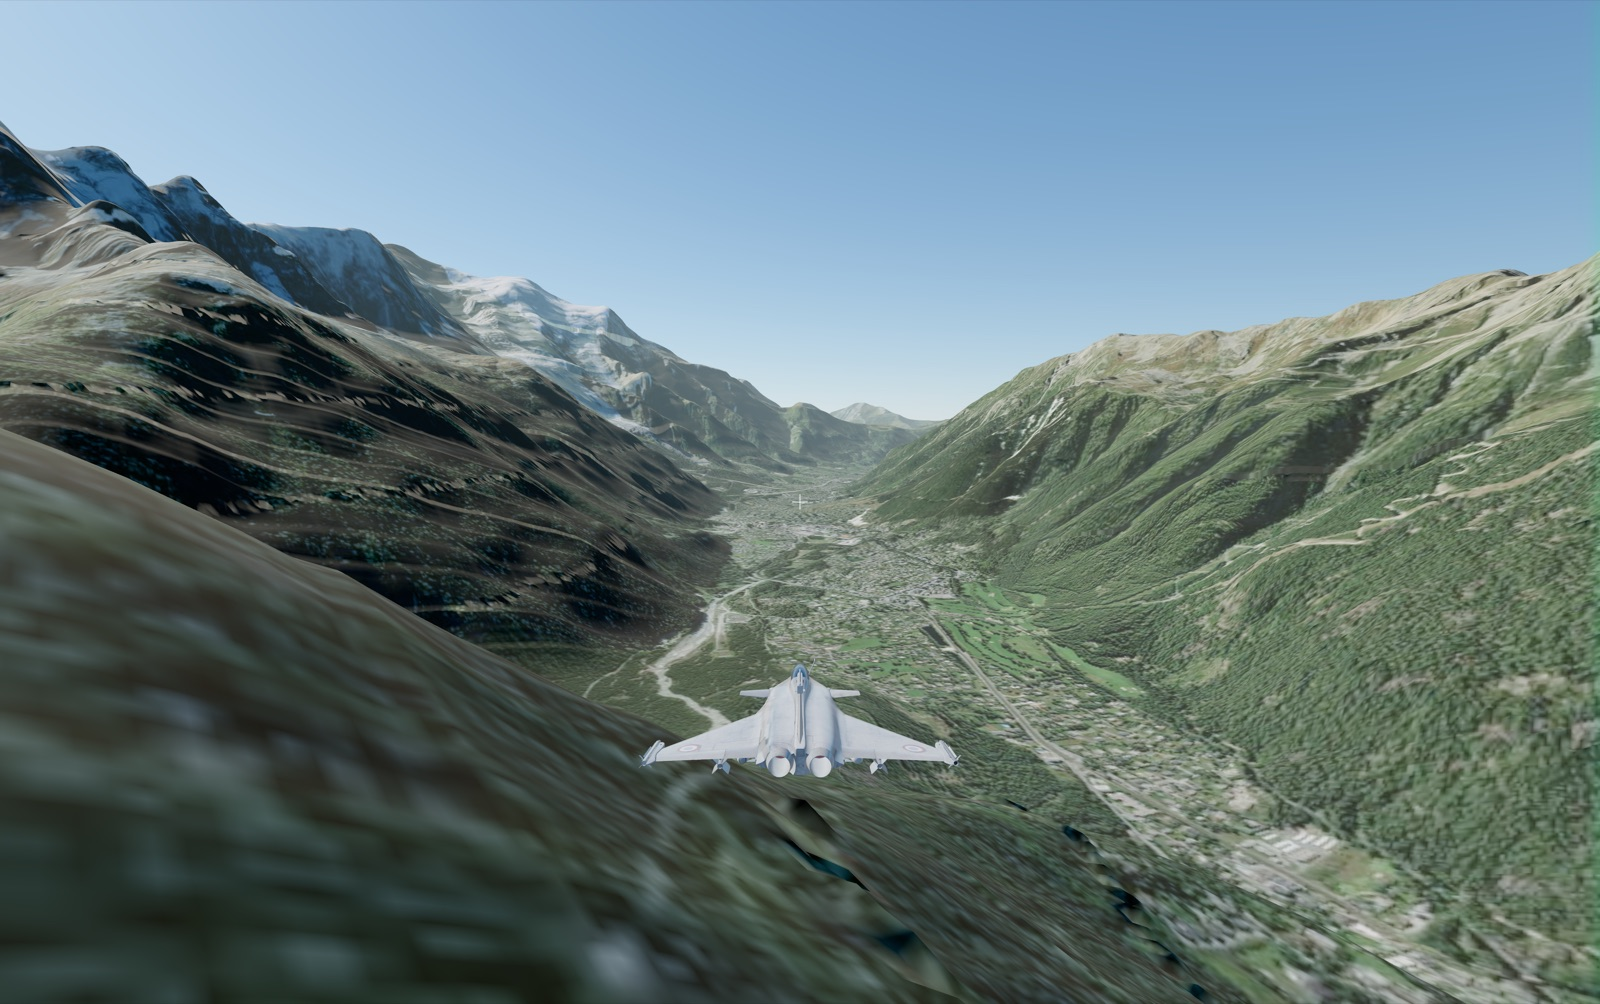
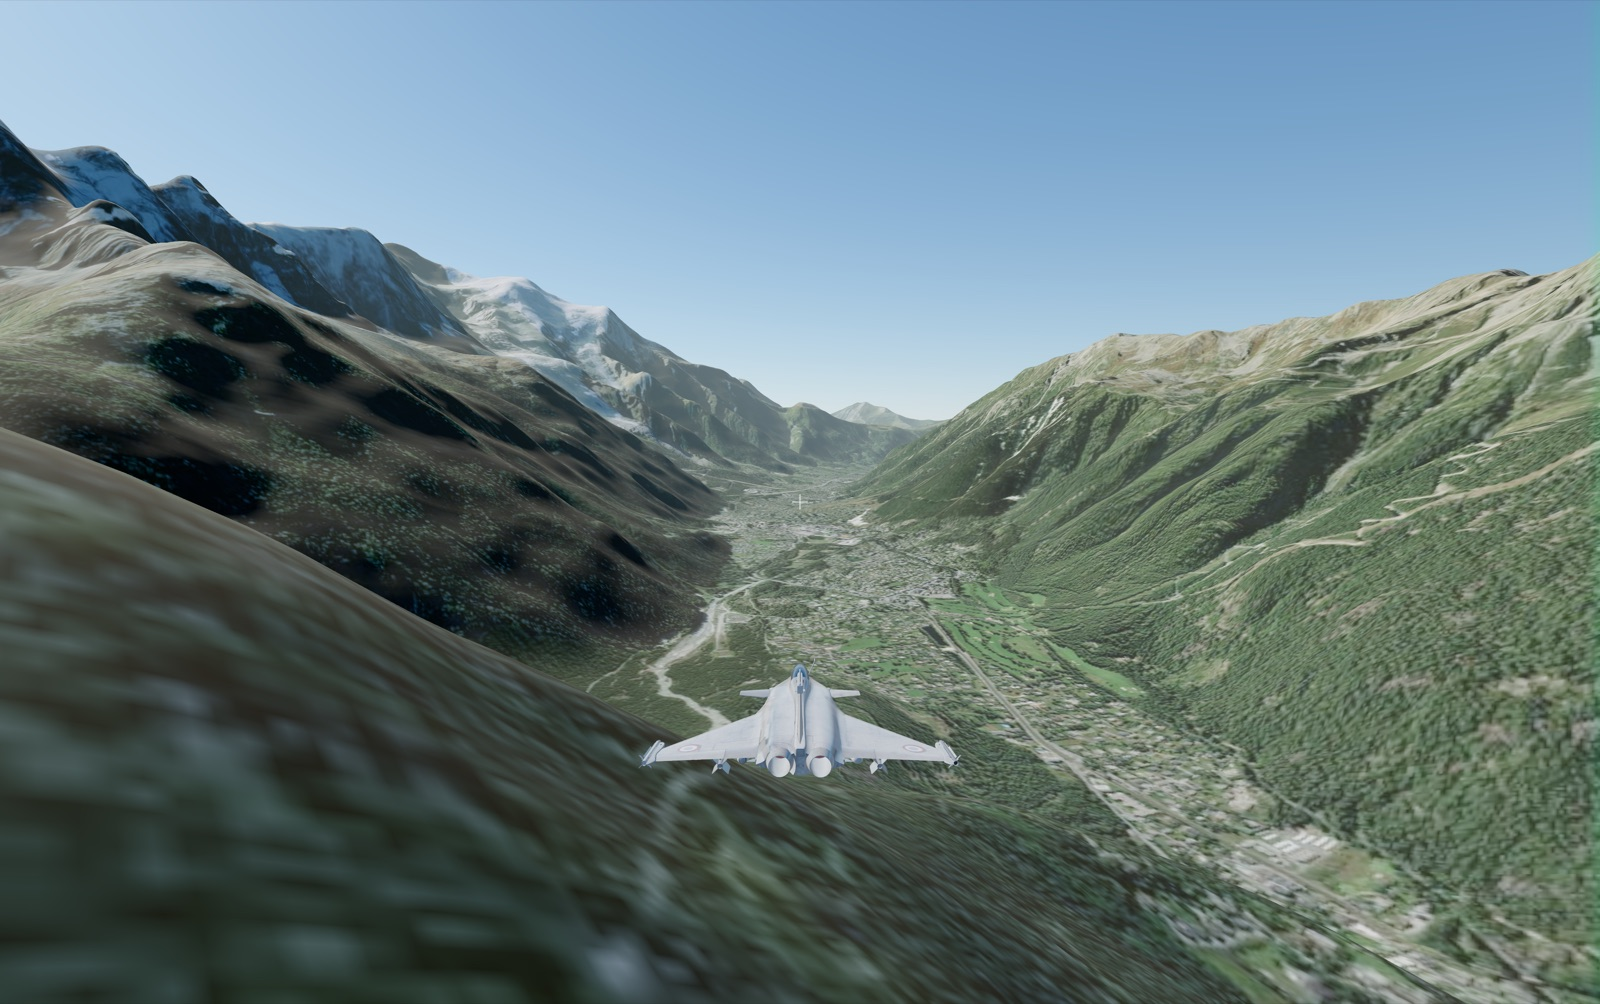
docs: record the measurements with CPU-decoded elevations and refresh the screenshots

diff --git a/docs/rendering-roadmap.md b/docs/rendering-roadmap.md
@@ -10,7 +10,7 @@ en fin de session.
 
 - **Lot terminé** : lot 1 (gains rapides). **Prochain lot** : lot 2, aucune tâche commencée.
 - **Git** : `feat/render-baseline` fusionnée dans `main` (fast-forward local, non poussée). Le lot 1 est
-  sur `feat/render-quick-wins` (12 commits au-dessus de `main`, ni fusionnée ni poussée). Demander à
+  sur `feat/render-quick-wins` (13 commits au-dessus de `main`, ni fusionnée ni poussée). Demander à
   l'utilisateur s'il faut la fusionner avant de créer la branche du lot 2 (`feat/render-hdr-pipeline`).
 - **Environnement local déjà prêt** : bundle three-tile reconstruit (anisotropie), `npm install` fait,
   cache `cache/` chaud. Lancer `npm run dev` (en tâche de fond) avant les mesures.
@@ -19,9 +19,9 @@ en fin de session.
   terrain, voir Décisions) → L2.5 → L2.1 → L2.2 → L2.3 → L2.4 → L2.8 → L2.7.
 - **Fait hors lot** : terrasses et stries du relief corrigées (décodage de l'altitude sur le CPU, voir
   L5.1 et le journal).
-- **Mesures** : un écran externe 60 Hz est apparu ; Chrome s'y ouvre et `AdaptiveQualityManager` y
-  dégrade la résolution sans jamais la rétablir (seuil de remontée 12 ms jamais atteint à 60 Hz).
-  Capturer sur l'écran 120 Hz, ou neutraliser la qualité adaptive pendant les mesures (L2.4).
+- **Mesures** : toujours sur l'écran intégré 120 Hz. Sur un écran 60 Hz, Chrome plafonne à 60 FPS et
+  `AdaptiveQualityManager` dégrade la résolution sans jamais la rétablir (seuil de remontée 12 ms jamais
+  atteint) : captures floues et mesures non comparables (corrigé par L2.4).
 - **Validation de chaque tâche** : `npm run render:capture -- --out benchmarks/render/<label>`, captures
   comparées à `benchmarks/render/lot1/` ; benchmarks de vol (défaut et `--plan 1`) à la clôture du lot.
 
@@ -261,6 +261,8 @@ Notes de lecture :
 | 2026-11-23 | Lot 1, PMREM en `scene.environment` (abandonné) | Plan 1 (basse alt.) | 94 s | 104,2 | 64,9 | 24,4 | 5,9 (9,3) | 396 / 44 | 2,67 M | 651 |
 | 2026-11-23 | Lot 1 | Vol par défaut | 128 s | 113,9 | 78,7 | 34,7 | 6,2 (10,3) | 122 / 28 | 2,12 M | 539 |
 | 2026-11-23 | Lot 1 | Plan 1 (basse alt.) | 94 s | 113,6 | 65,8 | 39,7 | 5,3 (8,6) | 49 / 4 | 2,67 M | 651 |
+| 2026-11-23 | Lot 1 + altitude décodée sur CPU | Vol par défaut | 128 s | 114,6 | 73,0 | 33,6 | 6,0 (10,3) | 50 / 4 | 2,12 M | 539 |
+| 2026-11-23 | Lot 1 + altitude décodée sur CPU | Plan 1 (basse alt.) | 94 s | 114,3 | 62,5 | 43,1 | 5,8 (8,9) | 5 / 0 | 2,67 M | 651 |
 
 Pour mémoire, la configuration n°4 de `BENCHMARKS.md` (même machine, Chrome 146, ancien moteur
 geo-three) donnait avg 83,8 / p5 47,8 / p1 17,0 (avg biaisé, comparable à 127,7 / 76,3 / 35,2).
@@ -273,12 +275,13 @@ geo-three) donnait avg 83,8 / p5 47,8 / p1 17,0 (avg biaisé, comparable à 127,
 | 2026-11-23 | Baseline — FPS moy / p1 | 120 / 109 | 120 / 108 | 120 / 111 | 120 / 106 | 120 / 109 |
 | 2026-11-23 | Lot 1 — GPU ms méd. | 9,8 | 9,7 | 9,7 | 9,6 | 10,3 |
 | 2026-11-23 | Lot 1 — FPS moy / p1 | 120 / 108 | 120 / 106 | 120 / 108 | 120 / 108 | 120 / 108 |
+| 2026-11-23 | Lot 1 + altitude CPU — FPS moy / p1 | 120 / 108 | 120 / 108 | 120 / 106 | 120 / 109 | 120 / 106 |
 
 Le temps GPU médian des vues statiques n'est pas exploitable : d'une capture à l'autre sans changement
 de code, une même vue donne ≈ 5–6 ms ou ≈ 10 ms (une valeur de `GPUTimer` couvre une ou deux frames).
 Comparer le temps GPU des benchmarks de vol jusqu'à L2.9.
 
-Constats visuels après le lot 1 (`docs/screenshots/render/lot1/`) :
+Constats visuels après le lot 1 (`docs/screenshots/render/lot1/`, état avec l'altitude décodée sur CPU) :
 - Ciel de Preetham visible, dégradé zénith/horizon, lueur solaire au couchant ; terrain et ciel se
   fondent à l'horizon (brouillard à la couleur du ciel).
 - Relief à sa vraie pente : massif du Mont-Blanc et vallée de Chamonix nettement plus raides.
@@ -320,9 +323,11 @@ Constats visuels de la baseline (`docs/screenshots/render/baseline/`) :
   par tranche de 256 m d'altitude, d'où une marche à chaque changement de R. Les données source sont
   lisses (vérifié : 1 à 3 m entre pixels voisins).
 - Corrigé (three-tile) : décodage sur le CPU en float, réduction bilinéaire, normales sur la grille
-  (L5.1 en partie). Coût ≈ 1,1 ms CPU par tuile (médiane, max 4 ms). Captures `benchmarks/render/dem-float`
-  faites sur un écran 60 Hz, à résolution dégradée : à refaire sur l'écran 120 Hz avec un benchmark de
-  vol avant la fusion.
+  (L5.1 en partie). Coût ≈ 1,1 ms CPU par tuile (médiane, max 4 ms).
+- Mesuré sur l'écran 120 Hz : frames > 33 ms 122 → 50 (vol par défaut) et 49 → 5 (plan 1) ; p1 33,6
+  (−4,5 % vs baseline) et 43,1 (+9 %) ; p5 en légère baisse (73,0 et 62,5), compatible avec le décodage
+  ajouté sur le thread principal. Captures du lot 1 remplacées par cet état.
+- Prochaine étape : inchangée (fusion de `feat/render-quick-wins`, puis lot 2 en commençant par L2.9).
 
 ### 2026-11-23 (3)
 - Fait : lot 1 complet (L1.4 partiel : PMREM sur l'avion seulement). `feat/render-baseline` fusionnée dans
